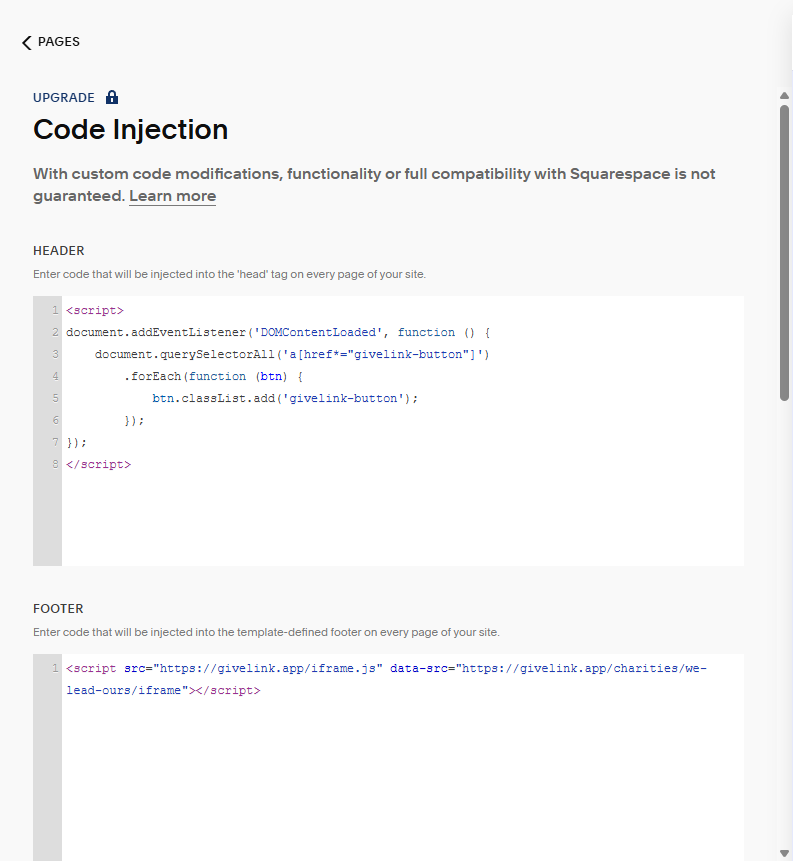
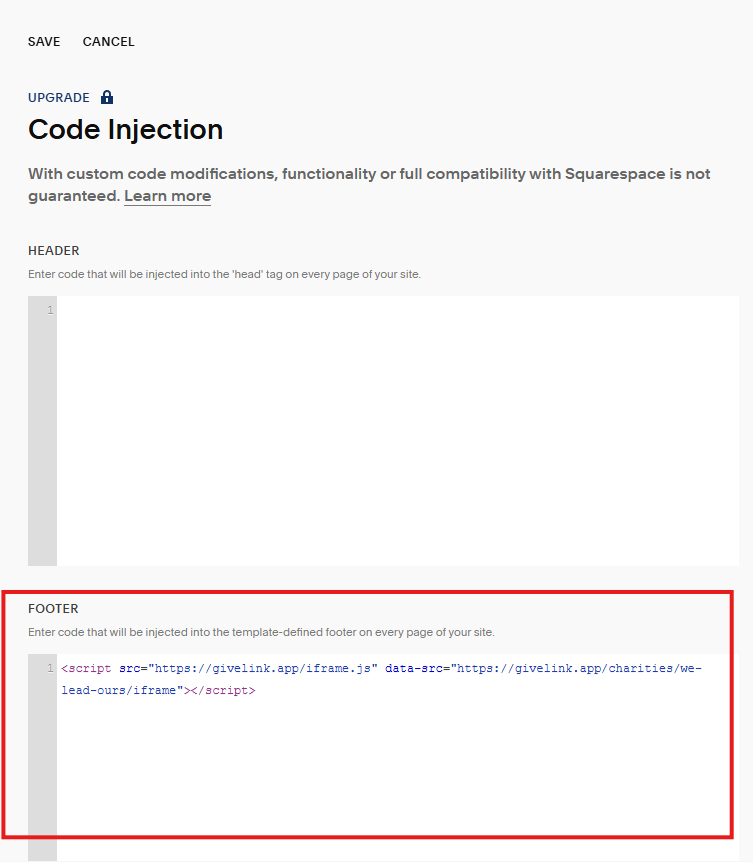
remove step

diff --git a/en/iframe/squarespace.md b/en/iframe/squarespace.md
@@ -25,21 +25,8 @@
 
 ![Code Injection Open](/assets/squarespace/squarespace-open-custom-code.png)
 
-9. Paste inside the `Header` section the following:
-
-```HTML
-<script>
-document.addEventListener('DOMContentLoaded', function () {
-    document.querySelectorAll('a[href*="givelink-button"]')
-        .forEach(function (btn) {
-            btn.classList.add('givelink-button');
-        });
-});
-</script>
-```
-
-10. Paste inside the `Footer` section the script provided by the step 1.
+9. Paste inside the `Footer` section the script provided by the step 1.
 
 ![Code Injection](/assets/squarespace/squarespace-code-injection.png)
 
-9. Save changes and publish when you are ready.
+10. Save changes and publish when you are ready.
